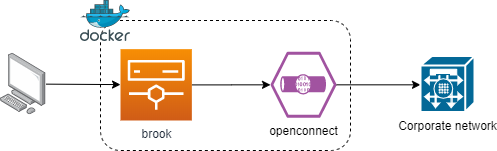
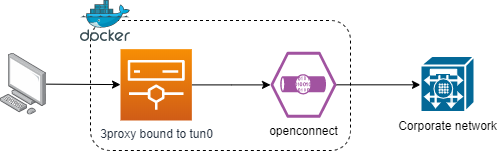
Use 3proxy instead of brook + ufw. Add a Changelog section.

diff --git a/README.md b/README.md
@@ -1,12 +1,40 @@
 # AnyConnect, Pulse and PAN container with proxies
+## Changelog
+
+- v20201208: Replace `brook` + `ufw` combo with `3proxy`. Reduce image size significantly.
+- v20201116: Enable IPv6to4 fallback.
+- v20201109: Use `s6-overlay` instead of `runit`. This change allow setting an environment variable through a file via prefix `FILE__`.
+- v20200115: Use `brook` for SOCKS5 instead of HTTP on `privoxy`.
+- v20190924: Initial version.
+
 ![openconnect](vpncontainer.png)
 
 An [s6-overlay](https://github.com/just-containers/s6-overlay)ed Alpine Linux container with:
 
 - VPN connection to your corporate network via [`openconnect`](https://github.com/openconnect). `openconnect` can connect to AnyConnect, Pulse and PAN.
-- Socks5 proxy with [brook](https://github.com/txthinking/brook)
-- HTTP proxy with [privoxy](http://www.privoxy.org/)
+- Proxy server with [3proxy](https://github.com/z3APA3A/3proxy)
 - The container starts in [`privileged`](https://docs.docker.com/engine/reference/run/#runtime-privilege-and-linux-capabilities) mode in order to avoid the `read-only file system` [error](https://serverfault.com/questions/878443/when-running-vpnc-in-docker-get-cannot-open-proc-sys-net-ipv4-route-flush). Please proceed with your own **risk**.
+
+## Build
+### Set architecture
+The container uses pre-built `s6-overlay` binaries. By default, it uses `amd64` s6 binaries. If your platform is different, modify `s6_arch` argument value in `Dockerfile` as follow:
+
+```Dockerfile
+ARG s6_arch=<your_platform_arch>
+```
+See [s6-overlay release page](https://github.com/just-containers/s6-overlay/releases/latest) to see if your platform is available. The argument can be set using `--build-arg` as below.
+
+### Build the image
+Build the image with `docker` with BuiltKit enabled:
+
+```Shell
+DOCKER_BUILDKIT=1 docker build --build-arg s6_arch=amd64 -t ducmthai:nord .
+```
+
+Alternatively, use `docker-compose build`:
+```Shell
+COMPOSE_DOCKER_CLI_BUILD=1 DOCKER_BUILDKIT=1 docker-compose build --build-arg s6_arch=amd64
+```
 
 ## Starting the VPN Proxy
 
@@ -18,8 +46,8 @@ The main configuration file, contain the following values:
 - `USERNAME`: Login username
 - `PASSWORD1`: Login primary password
 - `PASSWORD2`: OTP password or prompt response
-- `SUSERNAME`: Socks5 username (optional).
-- `SPASSWORD`: Socks5 password.
+- `PROXY_USER`: Proxy username (optional).
+- `PROXY_PASS`: Proxy password.
 - `KEEP_ALIVE_ENDPOINT`: An endpoint (can be internal or external) to keep the VPN connection alive
 
 Will set the environment variable PASSWORD based on the contents of the /run/secrets/mysecretpassword file.
@@ -30,6 +58,7 @@ The environment variables needed for exposing the proxy to the local network:
 - `PROXY_PORT`: If set, the SOCKS5 proxy is enabled and exposed through this port
 - `HTTP_PROXY_PORT`: If set, the HTTP proxy is enabled and exposed through this port
 - `LOCAL_NETWORK`: The CIDR mask of the local IP addresses (e.g. 192.168.0.1/24, 10.1.1.0/24) which will be acessing the proxy. This is so the response to a request can be returned to the client (i.e. your browser).
+- `EXT_IP`: Your external IP. Used only for healthcheck. You can get your current external IP on [ifconfig.co](https://ifconfig.co/ip)
 
 These variables can be specified in the command line or in the `.env` file in the case of `docker-compose`.
 
@@ -42,10 +71,10 @@ FILE__PASSWORD1=/vpn/passwd1
 FILE__PASSWORD2=/vpn/passwd2
 ```
 ### Create a docker network
-Before starting the container, please creat a docker network for it:
+Before starting the container, please create a docker network for it:
 
 ```Shell
-docker network create anyconnect --subnet=10.30.0.1/16
+docker network create openconnect --subnet=10.30.0.1/16
 ```
 ### Start with `docker run`
 
@@ -55,7 +84,7 @@ docker run -d \
 --cap-add=NET_ADMIN \
 --device=/dev/net/tun \
 --name=vpn_proxy \
---dns=172.25.21.1 --dns=172.25.21.1 \
+--dns=1.1.1.1 --dns=1.0.0.1 \
 --privileged=true \
 --restart=always \
 -e "PROXY_PORT=3128" \
@@ -63,6 +92,7 @@ docker run -d \
 -e "LOCAL_NETWORK=192.168.0.1/24" \
 -e "FILE__PASSWORD1=/vpn/passwd1" \
 -e "FILE__PASSWORD2=/vpn/passwd2" \
+-e "EXT_IP=<get_yours_at_ifconfig.co/ip> \
 -v /etc/localtime:/etc/localtime:ro \
 -v "$(pwd)"/vpn.config:/vpn/vpn.config:ro \
 -v "$(pwd)"/vpnpasswd1:/vpn/passwd1:ro \
